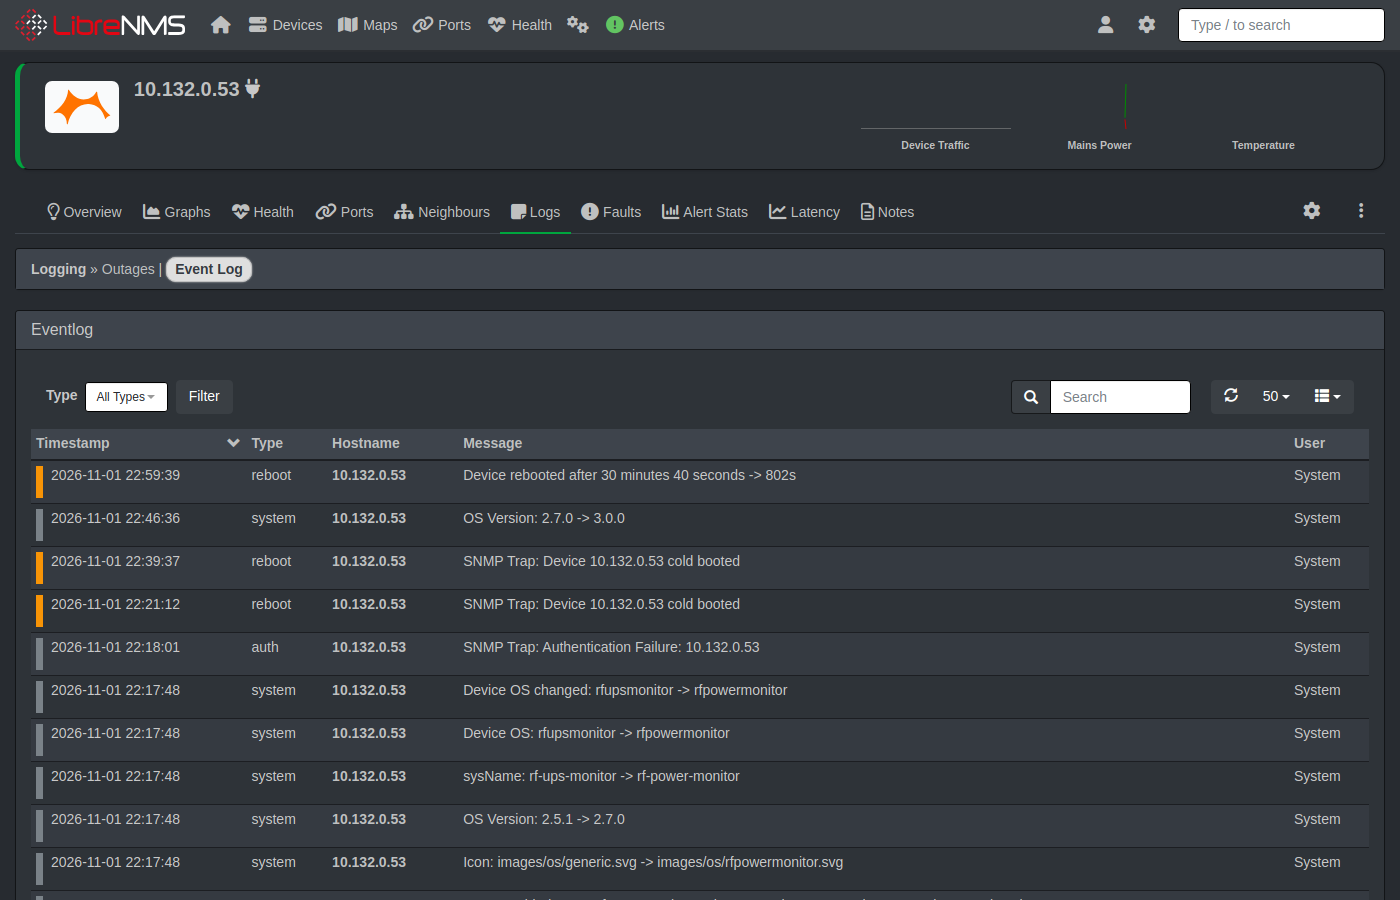
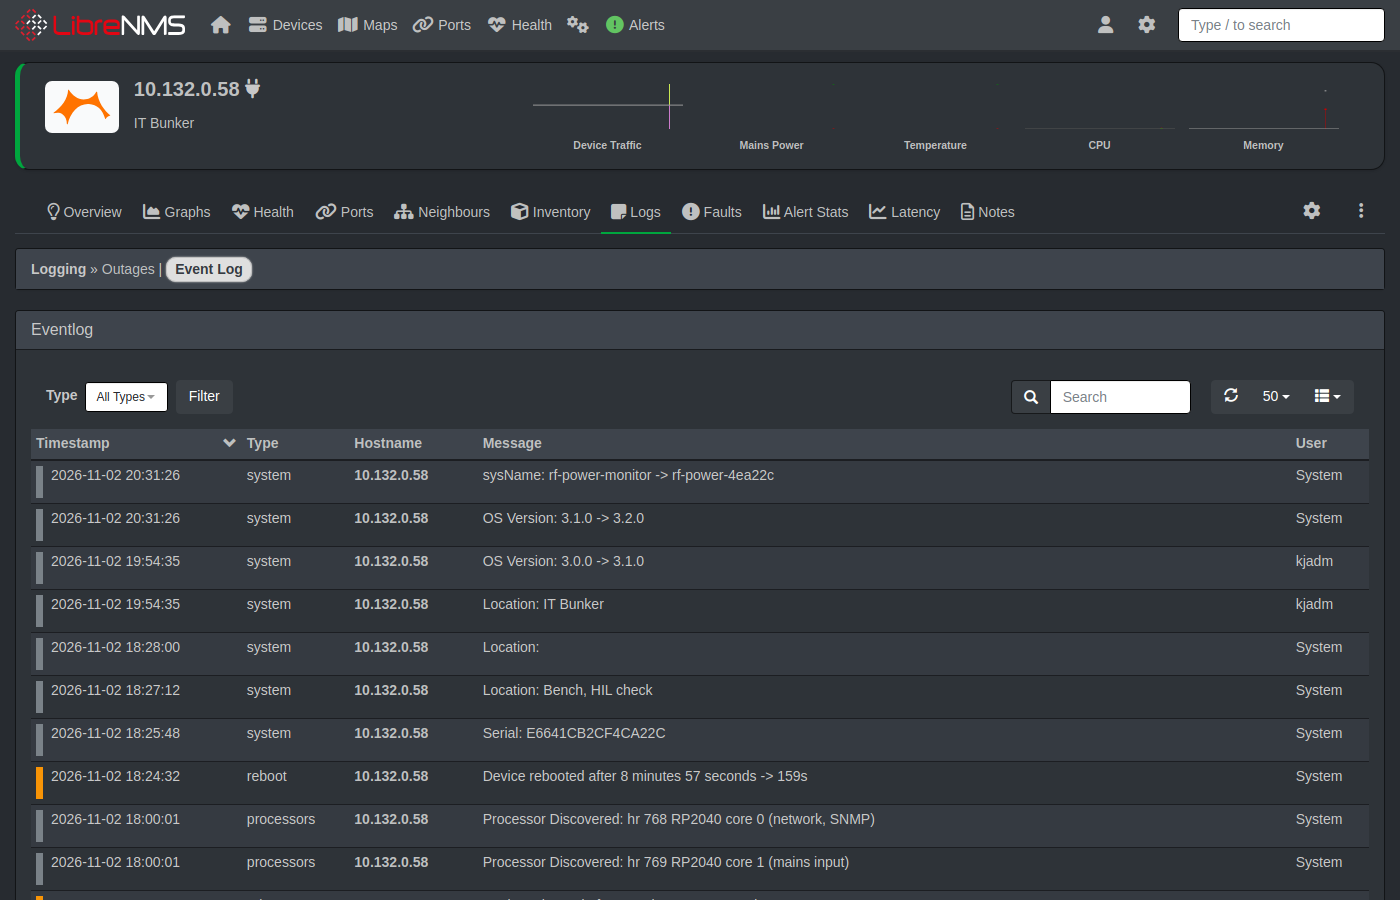
Docs: LibreNMS screenshots for firmware 3.2.0
Device overview (processors, memory, storage, serial, location; contact
replaced by a placeholder), event log, neighbours, and a new inventory shot.

diff --git a/docs/USER_MANUAL.md b/docs/USER_MANUAL.md
@@ -44,7 +44,7 @@ Connect a USB cable and open a terminal (PuTTY: Serial, the device's COM port, 1
 
 ### LibreNMS
 
-The device page shows the sensors *Mains power* (OK / warning), *Mains lost over 60 s* (OK / critical), *CPU* and *Ambient* temperature and *Mains power changes since boot*, the Ethernet port with its traffic, and in the **Switch** box the switch and port the device is plugged into (from LLDP, updated at each discovery; the box needs the RF-Power-Monitor plugin on the LibreNMS server). Since firmware 3.1.0 it also shows the device's location and contact (set them on the web page), the load of both processor cores and the memory in use (overview graphs *CPU* and *Memory*), the settings flash as storage, the IPv4 and IPv6 addresses on the port, the serial number, an **Inventory** entry, and IP/ICMP/TCP/UDP/SNMP traffic graphs under **Graphs → Netstats**. The screenshot below is from before 3.1.0:
+The device page shows the sensors *Mains power* (OK / warning), *Mains lost over 60 s* (OK / critical), *CPU* and *Ambient* temperature and *Mains power changes since boot*, the Ethernet port with its traffic, and in the **Switch** box the switch and port the device is plugged into (from LLDP, updated at each discovery; the box needs the RF-Power-Monitor plugin on the LibreNMS server). Since firmware 3.1.0 it also shows the device's location and contact (set them on the web page), the load of both processor cores and the memory in use (overview graphs *CPU* and *Memory*), the settings flash as storage, the IPv4 and IPv6 addresses on the port, the serial number, an **Inventory** entry, and IP/ICMP/TCP/UDP/SNMP traffic graphs under **Graphs → Netstats** (firmware 3.2.0, contact replaced by a placeholder):
 
 ![LibreNMS: the device page](images/librenms/device-overview.png)
 
@@ -55,6 +55,10 @@ Under **Logs → Event Log** you see what happened: the traps the device sent (m
 The **Neighbours** tab shows the switch and port the device is plugged into (from LLDP):
 
 ![LibreNMS: the Neighbours tab](images/librenms/device-neighbours.png)
+
+The **Inventory** (top menu, or the device's Inventory tab) lists the device with its model and serial number:
+
+![LibreNMS: the device in the inventory](images/librenms/device-inventory.png)
 
 ## When the alarm comes
 

diff --git a/docs/SETUP_MANUAL.md b/docs/SETUP_MANUAL.md
@@ -126,7 +126,7 @@ If you don't want the web page at all, turn it off with menu option `8`.
 
    ![LibreNMS: Add Device](images/librenms/add-device.png)
 
-   LibreNMS detects it as **RF-Power-Monitor** and creates its sensors: *Mains power*, *Mains lost over 60 s*, *CPU* and *Ambient* temperature, and *Mains power changes since boot*. The device page then looks like this:
+   LibreNMS detects it as **RF-Power-Monitor** and creates its sensors: *Mains power*, *Mains lost over 60 s*, *CPU* and *Ambient* temperature, and *Mains power changes since boot*; with firmware 3.1.0 and later also the two processor cores, memory, the settings flash as storage, the addresses, the serial number and the location you set. The device page then looks like this (contact replaced by a placeholder):
 
    ![LibreNMS: the device page with its sensors](images/librenms/device-overview.png)
 
